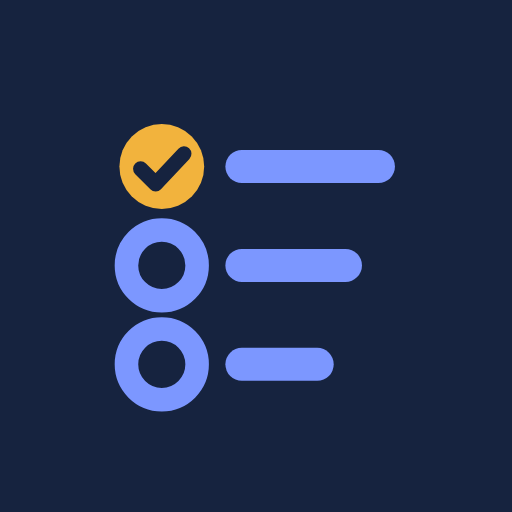
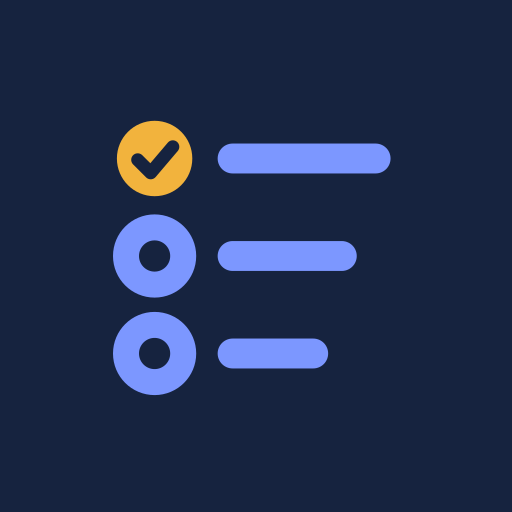
Icônes nettes : redessinées en vectoriel et rendues avec lissage des bords
Claude-Session: https://claude.ai/code/session_01BSJJ47UcXAZ5iQxA68haju

Changed region(s): [[0.2188, 0.2188, 0.7812, 0.8125]]

diff --git a/index.html b/index.html
@@ -2,7 +2,7 @@
 <html lang="fr"><head><meta charset="utf-8">
 <meta name="viewport" content="width=device-width, initial-scale=1, viewport-fit=cover">
 <title>ScoreUp</title>
-<link rel="manifest" href="manifest.webmanifest"><meta name="theme-color" content="#101a3d"><link rel="icon" href="icon-192.png?v=tl2"><link rel="apple-touch-icon" href="icon-192.png?v=tl2"><meta name="apple-mobile-web-app-capable" content="yes"><meta name="mobile-web-app-capable" content="yes"><meta name="apple-mobile-web-app-title" content="ScoreUp">
+<link rel="manifest" href="manifest.webmanifest"><meta name="theme-color" content="#101a3d"><link rel="icon" href="icon-192.png?v=tl3"><link rel="apple-touch-icon" href="icon-192.png?v=tl3"><meta name="apple-mobile-web-app-capable" content="yes"><meta name="mobile-web-app-capable" content="yes"><meta name="apple-mobile-web-app-title" content="ScoreUp">
 <style>
 :root{--bg:#f1f3f6;--cd:#fff;--tx:#14181f;--mu:#5d6675;--ac:#2447c9;--ax:#fff;--ok:#17794a;--ob:#dff3e8;--ko:#b42318;--kb:#fbe3e0;--bd:#d3d9e2;color-scheme:light;box-sizing:border-box;padding-top:env(safe-area-inset-top,0px);padding-bottom:env(safe-area-inset-bottom,0px)}
 @media (prefers-color-scheme:dark){:root:not([data-theme="light"]){--bg:#12151b;--cd:#1b2029;--tx:#eceff4;--mu:#9aa4b5;--ac:#8fa8ff;--ax:#0e1530;--ok:#74d6a0;--ob:#13301f;--ko:#f4a29a;--kb:#3a1d1a;--bd:#323a49;color-scheme:dark}}
@@ -6081,7 +6081,7 @@ var GREET=["Bonjour {n} ! Prêt(e) à faire grimper ton score aujourd’hui ?","
 var GREET0=["Prêt(e) à réviser ? Importe tes questions, entraîne-toi, passe un examen.","Bienvenue sur ScoreUp ! Une petite série pour bien commencer ?","Chaque question révisée est un point de plus le jour de l’examen 💪"];
 function greet(){var n=myName(),d=new Date(),k=d.getDate()+d.getMonth()*31,a=n?GREET:GREET0,t=a[k%a.length].replace("{n}",esc(n)),hr=d.getHours();
  var hi=hr<12?"☀ ":hr<18?"📚 ":"🌙 ";return "<p class='mu' style='font-size:16px'>"+hi+t+"</p><button class='back' style='font-size:13px;padding:0 0 6px' onclick='hello()'>"+(n?"Changer mon prénom":"Ajouter mon prénom")+"</button>"}
-function welcome(){$("#app").innerHTML="<div class='wl'><div class='wl-top'><div class='tl-ap'><img src='icon-192.png?v=tl2' alt=''><div><b>ScoreUp</b><small>par Thousand Labs</small></div></div></div><h1>Révise mieux.<br>Réussis tes partiels.</h1><p>QCM, examens chronométrés et exercices corrigés, même sans Internet.</p></div><div class='wl-q' aria-hidden='true'><div class='wl-qh'><span>Marketing · L1</span><span>Question 3 / 20</span></div><div class='wl-bar'><i></i></div><b style='font-size:15px'>Quels sont les 4 P du marketing-mix traditionnel ?</b><div class='wl-o ok'><span>A</span><div style='flex:1'>Produit, Prix, Place, Promotion</div><svg width='20' height='20' viewBox='0 0 24 24' fill='none' stroke='currentColor' stroke-width='2' stroke-linecap='round' stroke-linejoin='round' aria-hidden='true'><path d='M5 12l5 5L20 7'/></svg></div><div class='wl-o'><span>B</span><div>Produit, Profit, Personnel, Publicité</div></div></div><div class='wl-f'><i><svg width='20' height='20' viewBox='0 0 24 24' fill='none' stroke='currentColor' stroke-width='2' stroke-linecap='round' stroke-linejoin='round' aria-hidden='true'><path d='M22 10L12 5 2 10l10 5 10-5z'/><path d='M6 12v5c3 2 9 2 12 0v-5'/></svg></i><div><b>Les séries de ton école</b><small>Les écoles de l’ISM, niveau L1</small></div></div><div class='wl-f'><i><svg width='20' height='20' viewBox='0 0 24 24' fill='none' stroke='currentColor' stroke-width='2' stroke-linecap='round' stroke-linejoin='round' aria-hidden='true'><circle cx='12' cy='13' r='8'/><path d='M12 9v4l2 2'/><path d='M9 2h6'/></svg></i><div><b>Mode examen chronométré</b><small>Entraîne-toi dans les vraies conditions</small></div></div><div class='wl-f'><i><svg width='20' height='20' viewBox='0 0 24 24' fill='none' stroke='currentColor' stroke-width='2' stroke-linecap='round' stroke-linejoin='round' aria-hidden='true'><rect x='5' y='11' width='14' height='10' rx='2'/><path d='M8 11V7a4 4 0 0 1 8 0v4'/></svg></i><div><b>Sans compte, sans Internet</b><small>Tout reste sur ton téléphone</small></div></div>"+(ACT?"<button class='btn wl-cta' onclick='hello()'>Commencer</button>":"<button class='btn wl-cta' onclick='hello()'>Essayer gratuitement 48 h</button><p class='wl-sub'>Puis 5 000 F, une seule fois · <button onclick='gate()'>J’ai déjà un code</button></p>")+TLL.switcher()}
+function welcome(){$("#app").innerHTML="<div class='wl'><div class='wl-top'><div class='tl-ap'><img src='icon-192.png?v=tl3' alt=''><div><b>ScoreUp</b><small>par Thousand Labs</small></div></div></div><h1>Révise mieux.<br>Réussis tes partiels.</h1><p>QCM, examens chronométrés et exercices corrigés, même sans Internet.</p></div><div class='wl-q' aria-hidden='true'><div class='wl-qh'><span>Marketing · L1</span><span>Question 3 / 20</span></div><div class='wl-bar'><i></i></div><b style='font-size:15px'>Quels sont les 4 P du marketing-mix traditionnel ?</b><div class='wl-o ok'><span>A</span><div style='flex:1'>Produit, Prix, Place, Promotion</div><svg width='20' height='20' viewBox='0 0 24 24' fill='none' stroke='currentColor' stroke-width='2' stroke-linecap='round' stroke-linejoin='round' aria-hidden='true'><path d='M5 12l5 5L20 7'/></svg></div><div class='wl-o'><span>B</span><div>Produit, Profit, Personnel, Publicité</div></div></div><div class='wl-f'><i><svg width='20' height='20' viewBox='0 0 24 24' fill='none' stroke='currentColor' stroke-width='2' stroke-linecap='round' stroke-linejoin='round' aria-hidden='true'><path d='M22 10L12 5 2 10l10 5 10-5z'/><path d='M6 12v5c3 2 9 2 12 0v-5'/></svg></i><div><b>Les séries de ton école</b><small>Les écoles de l’ISM, niveau L1</small></div></div><div class='wl-f'><i><svg width='20' height='20' viewBox='0 0 24 24' fill='none' stroke='currentColor' stroke-width='2' stroke-linecap='round' stroke-linejoin='round' aria-hidden='true'><circle cx='12' cy='13' r='8'/><path d='M12 9v4l2 2'/><path d='M9 2h6'/></svg></i><div><b>Mode examen chronométré</b><small>Entraîne-toi dans les vraies conditions</small></div></div><div class='wl-f'><i><svg width='20' height='20' viewBox='0 0 24 24' fill='none' stroke='currentColor' stroke-width='2' stroke-linecap='round' stroke-linejoin='round' aria-hidden='true'><rect x='5' y='11' width='14' height='10' rx='2'/><path d='M8 11V7a4 4 0 0 1 8 0v4'/></svg></i><div><b>Sans compte, sans Internet</b><small>Tout reste sur ton téléphone</small></div></div>"+(ACT?"<button class='btn wl-cta' onclick='hello()'>Commencer</button>":"<button class='btn wl-cta' onclick='hello()'>Essayer gratuitement 48 h</button><p class='wl-sub'>Puis 5 000 F, une seule fois · <button onclick='gate()'>J’ai déjà un code</button></p>")+TLL.switcher()}
 function hello(){var n=myName();$("#app").innerHTML="<h1>Comment t’appelles-tu ?</h1><p class='mu'>Juste pour t’accueillir. Ensuite, tu choisis ton école.</p>"+(ACT?"":"<p class='mu'>Essai gratuit : il reste "+leftTxt()+".</p>")+"<div class='cd'><label for='pn'>Ton prénom (facultatif)</label><input type='text' id='pn' maxlength='24' autocomplete='given-name' value='"+esc(n)+"' placeholder='Ex. Awa'><p class='mu'>Il sert seulement à t’accueillir sur l’écran d’accueil. Il reste sur ton téléphone.</p><button class='btn' onclick='saveName()'>Continuer</button><button class='btn s' onclick='saveName(1)'>Passer</button></div>"}
 function saveName(skip){var v=skip?"":(($("#pn")||{}).value||"").replace(/\s+/g," ").trim().slice(0,24);if(v)lss("qcm_name",v);else if(!skip)lsr("qcm_name");lss("qcm_hello","1");view=lsg("qcm_school")===null?"ecole":"home";cur=null;tmp.ec=null;R()}
 document.addEventListener("click",seen,true);document.addEventListener("keydown",seen,true);
@@ -6198,7 +6198,7 @@ var TLBUY=(function(){
   return {init:init,html:html,pick:pick,qty:qty,meth:meth,cpy:cpy,send:send,redraw:redraw}
 })();
 
-function gate(){var id=fmt(devId()),ts=ACT?"act":trialState();$("#app").innerHTML="<div class='gt'><div class='tl-ap'><img src='icon-192.png?v=tl2' alt=''><div><b>ScoreUp</b><small>par Thousand Labs</small></div></div>"+TLL.switcher()+(ts==="trial"?"<button class='back' onclick='R()'>← Retour à l’appli (essai : "+leftTxt()+")</button>":"")+(ts==="cheat"?"<div class='w'>🔒 L’heure de ton appareil a été reculée pendant la période d’essai. L’appli est verrouillée : seul un code d’activation peut la débloquer.</div>":"")+(ts==="over"?"<h1>Garde ScoreUp</h1><p class='mu'>Ton essai de 48 heures est terminé. Tes séries et tes résultats sont conservés : active l’appli pour les retrouver.</p>":"<h1>Activer ScoreUp</h1><p class='mu'>Une seule fois, sans abonnement. Le code est lié à ce téléphone.</p>")+(TLBUY.init({app:"ScoreUp",dev:function(){return id},plans:[{n:1,price:5000},{n:2,price:9000},{n:5,price:21000}],lang:function(){return TLL.lang()}}),TLBUY.html())+"<div class='cd'><b>J’ai déjà un code</b><p class='mu'>Colle ici le code d’activation reçu sur WhatsApp.</p><textarea id='gc' style='min-height:90px' autocomplete='off'></textarea><button class='btn' onclick='unlock()'>Activer</button><button class='btn s' onclick='suScan()'>Scanner le code</button><p class='er' id='ge'></p></div><div class='cd'><div class='gt-id'><div><span class='mu'>Identifiant de ce téléphone</span><br><code>"+id+"</code></div><button class='btn s' style='width:auto;flex:none;margin:0' onclick='copy(\""+id+"\",this)'>Copier</button></div><button class='back' onclick='suShowQR()'>Afficher en QR code</button><p class='mu'>Tu as acheté auprès d’un vendeur ? Envoie-lui cet identifiant.</p></div><p class='mu'>L’activation ne se fait qu’une fois. Le code ne marche que sur cet appareil : si tu vides les données du navigateur ou si tu changes de téléphone, il faudra en demander un nouveau.</p>"+(store?"":"<div class='w'>Ton navigateur ne peut pas enregistrer l’activation (navigation privée ?). Utilise un onglet normal, sinon tu devras la refaire à chaque ouverture.</div>")+tlBrand(0)+"<p class='mu' style='text-align:center'>Site officiel : <a href='https://thousandlabs.github.io/ScoreUp/' style='color:var(--ac)'>thousandlabs.github.io/ScoreUp</a></p></div>"}
+function gate(){var id=fmt(devId()),ts=ACT?"act":trialState();$("#app").innerHTML="<div class='gt'><div class='tl-ap'><img src='icon-192.png?v=tl3' alt=''><div><b>ScoreUp</b><small>par Thousand Labs</small></div></div>"+TLL.switcher()+(ts==="trial"?"<button class='back' onclick='R()'>← Retour à l’appli (essai : "+leftTxt()+")</button>":"")+(ts==="cheat"?"<div class='w'>🔒 L’heure de ton appareil a été reculée pendant la période d’essai. L’appli est verrouillée : seul un code d’activation peut la débloquer.</div>":"")+(ts==="over"?"<h1>Garde ScoreUp</h1><p class='mu'>Ton essai de 48 heures est terminé. Tes séries et tes résultats sont conservés : active l’appli pour les retrouver.</p>":"<h1>Activer ScoreUp</h1><p class='mu'>Une seule fois, sans abonnement. Le code est lié à ce téléphone.</p>")+(TLBUY.init({app:"ScoreUp",dev:function(){return id},plans:[{n:1,price:5000},{n:2,price:9000},{n:5,price:21000}],lang:function(){return TLL.lang()}}),TLBUY.html())+"<div class='cd'><b>J’ai déjà un code</b><p class='mu'>Colle ici le code d’activation reçu sur WhatsApp.</p><textarea id='gc' style='min-height:90px' autocomplete='off'></textarea><button class='btn' onclick='unlock()'>Activer</button><button class='btn s' onclick='suScan()'>Scanner le code</button><p class='er' id='ge'></p></div><div class='cd'><div class='gt-id'><div><span class='mu'>Identifiant de ce téléphone</span><br><code>"+id+"</code></div><button class='btn s' style='width:auto;flex:none;margin:0' onclick='copy(\""+id+"\",this)'>Copier</button></div><button class='back' onclick='suShowQR()'>Afficher en QR code</button><p class='mu'>Tu as acheté auprès d’un vendeur ? Envoie-lui cet identifiant.</p></div><p class='mu'>L’activation ne se fait qu’une fois. Le code ne marche que sur cet appareil : si tu vides les données du navigateur ou si tu changes de téléphone, il faudra en demander un nouveau.</p>"+(store?"":"<div class='w'>Ton navigateur ne peut pas enregistrer l’activation (navigation privée ?). Utilise un onglet normal, sinon tu devras la refaire à chaque ouverture.</div>")+tlBrand(0)+"<p class='mu' style='text-align:center'>Site officiel : <a href='https://thousandlabs.github.io/ScoreUp/' style='color:var(--ac)'>thousandlabs.github.io/ScoreUp</a></p></div>"}
 function unlock(){var c=$("#gc").value.replace(/\s+/g,"").replace(/^SUCODE:/i,"");if(!c){$("#ge").textContent="Colle ton code d’activation.";return}
  if(!(window.crypto&&crypto.subtle)){$("#ge").textContent="Ouvre l’appli depuis son lien https pour pouvoir l’activer.";return}
  $("#ge").textContent="Vérification…";chkCode(c).then(function(ok){if(ok){try{localStorage.setItem("qcm_act",c)}catch(e){}activated();afterAccess()}else $("#ge").textContent="Code invalide pour cet appareil. Vérifie que tu l’as copié en entier et qu’il correspond à l’identifiant affiché."})}

diff --git a/sw.js b/sw.js
@@ -1,7 +1,7 @@
 /* ScoreUp — service worker : appli disponible hors ligne, mises à jour automatiques */
-const CACHE = 'scoreup-v4.4';
+const CACHE = 'scoreup-v4.5';
 const PREFIX = 'scoreup-v'; /* les applis Thousand Labs partagent le même domaine : on ne touche qu'à NOS caches */
-const ASSETS = ['./', './index.html', './manifest.webmanifest', './icon-192.png?v=tl2', './icon-512.png?v=tl2', './apple-touch-icon.png?v=tl2'];
+const ASSETS = ['./', './index.html', './manifest.webmanifest', './icon-192.png?v=tl3', './icon-512.png?v=tl3', './apple-touch-icon.png?v=tl3'];
 const OFFLINE = () => new Response(
         '<!doctype html><meta charset="utf-8"><meta name="viewport" content="width=device-width,initial-scale=1"><body style="font-family:sans-serif;padding:24px;text-align:center"><h2>Hors ligne</h2><p>Ouvrez l\'appli une fois avec une connexion pour l\'activer hors ligne, puis réessayez.</p></body>',
         { headers: { 'Content-Type': 'text/html; charset=utf-8' } });
